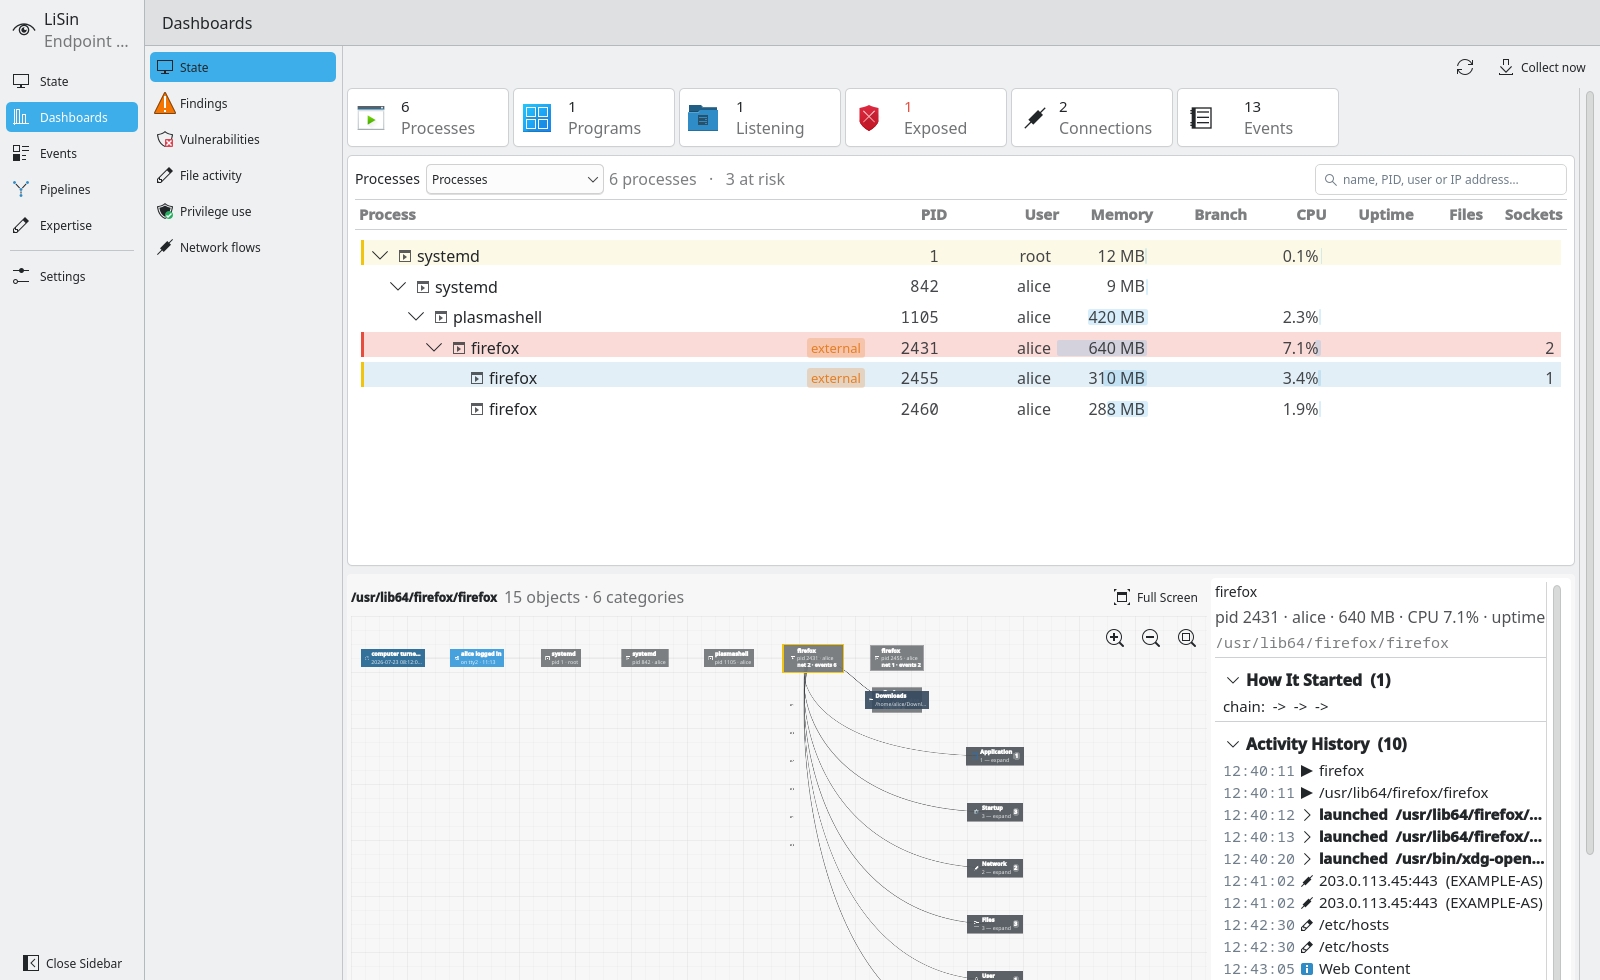
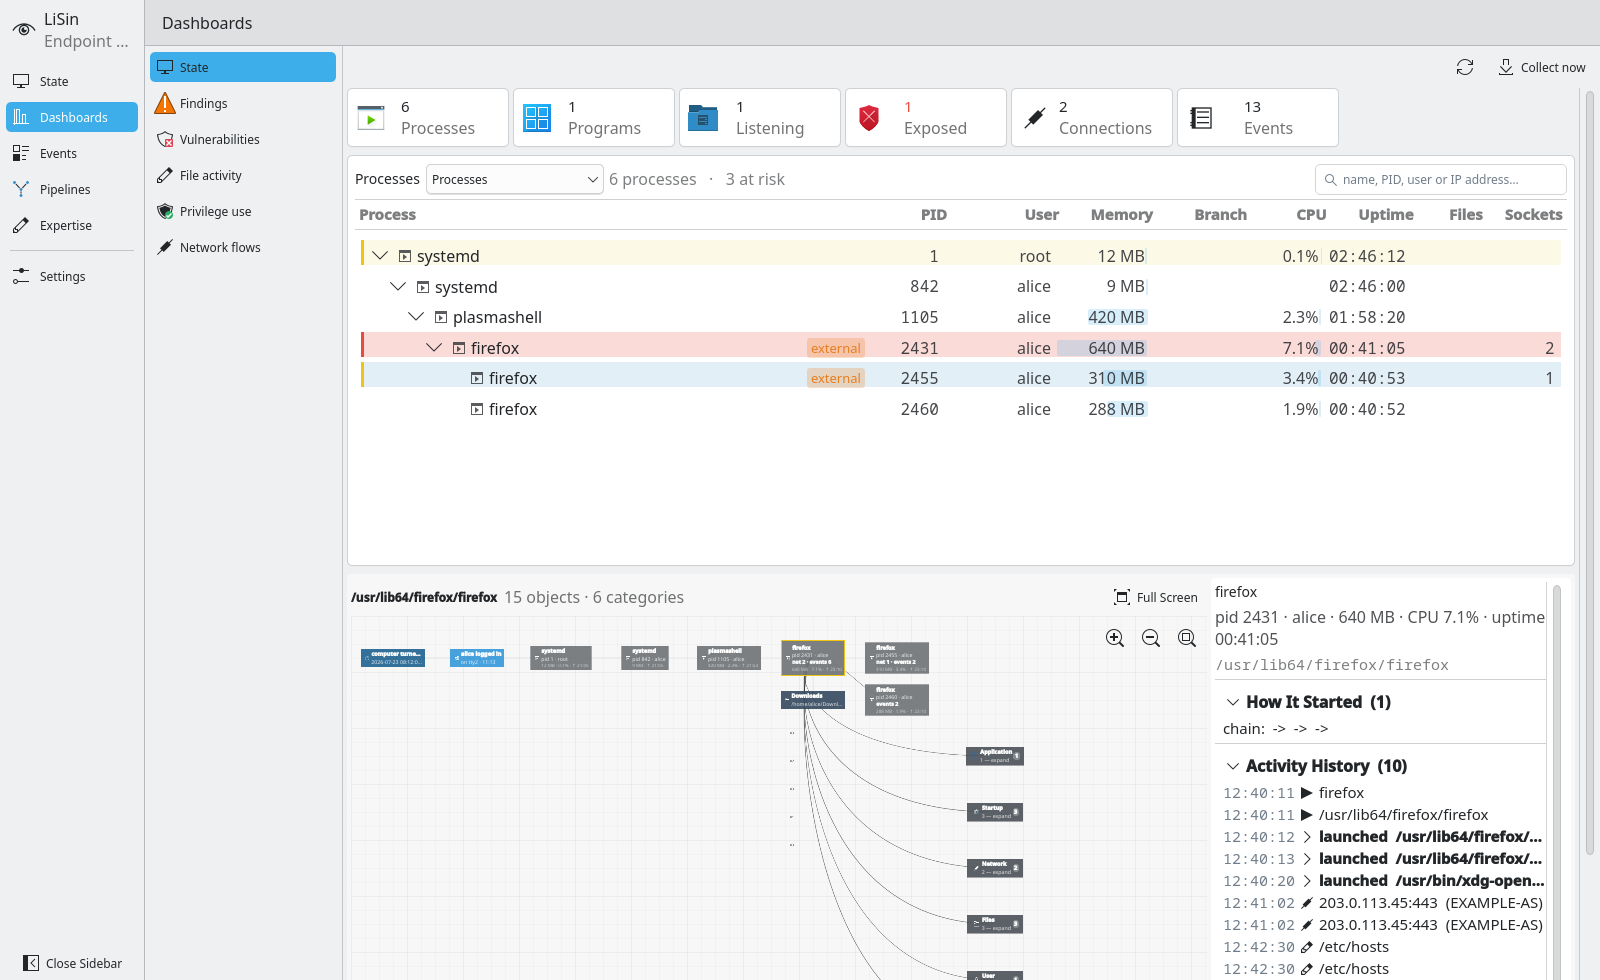
Dashboard graph: no overlaps, tidy expand lines, subtle per-process metrics
Three fixes to the process/anchor graph:

* DIRECTORIES NO LONGER OVERLAP. The tree, the boot/login spine, the working
  directory and the category grids were each placed independently, so a dir
  node (e.g. /opt/Bitrix24) could land on top of a process. A single
  _declutter pass now pushes any colliding cards apart in whole grid steps
  (so a later snap can't undo it), guaranteeing a clear gap - measured 0
  overlaps for every anchor kind, collapsed and expanded. The cwd node also
  moved from the child column (where it sat on a child) to directly below the
  process.

* EXPAND NO LONGER MAKES A HAIRBALL. When a category is expanded its members
  are a tidy grid next to the block header; a wire from the header to every
  one of them was the tangle. The members now read as a cluster (same colour,
  grouped in place) and the wires appear only when the block or a member is
  hovered - overview first, connections on demand.

* SUBTLE PER-PROCESS METRICS. Each process node carries a faint third line -
  RAM, CPU and when it started (uptime subtracted from now) - dim and small on
  purpose: there for a glance, never shouting.

diff --git a/ui/components/GraphCanvas.qml b/ui/components/GraphCanvas.qml
@@ -267,6 +267,14 @@ Item {
                         var e = edges[j]
                         var a = pos[e.a], b = pos[e.b]
                         if (!a || !b) continue
+                        // WHEN A CATEGORY IS EXPANDED, its members are shown as a
+                        // tidy grid next to the block header - a wire from the
+                        // header to every one of them turned that into a hairball.
+                        // The members read as a cluster (same colour, grouped in
+                        // place); the wires appear only when the block or one of
+                        // its members is hovered, to confirm what belongs where.
+                        if (a.kind === "group" && hov !== e.a && hov !== e.b)
+                            continue
                         var lit = hov === "" || e.a === hov || e.b === hov
                         var member = e.rel === "member"
                         var conn = e.rel === "connected"
@@ -434,6 +442,16 @@ Item {
                                 Layout.maximumWidth: chip.maxW - Kirigami.Units.gridUnit * 2
                                 font.bold: true
                                 font.pointSize: Kirigami.Theme.smallFont.pointSize - 1
+                            }
+                            // A FAINT METRICS LINE (RAM · CPU · started). Dim and
+                            // tiny on purpose: there for a glance, never shouting.
+                            QQC2.Label {
+                                text: modelData.metrics || ""
+                                visible: text !== ""
+                                color: Qt.alpha("white", 0.6)
+                                elide: Text.ElideRight
+                                Layout.maximumWidth: chip.maxW - Kirigami.Units.gridUnit * 2
+                                font.pointSize: Kirigami.Theme.smallFont.pointSize - 2
                             }
                         }
                         // the counter on a category meta node

diff --git a/agent/analysis/links.py b/agent/analysis/links.py
@@ -422,6 +422,51 @@ def _emit_categories(add, link, anchor_id, ax, ay, cats, expanded,
     return summary
 
 
+def _declutter(nodes, w=240, h=120, rounds=80):
+    """Push overlapping cards apart so none sit on top of each other.
+
+    The tree, the boot/login spine, the working-directory node and the category
+    grids are each placed independently, so a directory could land on a tree node
+    (that was the "directories overlap strangely" bug). This one pass guarantees a
+    clear gap - the same idea as the pipeline editor's enforceLayout. It only ever
+    moves cards that actually collide, so a graph that is already tidy is untouched.
+    Pushes are whole GRID steps, so cards stay grid-aligned and a later snap cannot
+    pull two cleared cards back on top of each other.
+    """
+    if len(nodes) < 2:
+        return
+    for n in nodes:                               # start grid-aligned
+        n["x"] = _snap(n["x"])
+        n["y"] = _snap(n["y"])
+    for _ in range(rounds):
+        moved = False
+        for i in range(len(nodes)):
+            a = nodes[i]
+            for j in range(i + 1, len(nodes)):
+                b = nodes[j]
+                dx = b["x"] - a["x"]
+                dy = b["y"] - a["y"]
+                ox = w - abs(dx)
+                oy = h - abs(dy)
+                if ox <= 0 or oy <= 0:
+                    continue                      # no overlap
+                if ox < oy:                       # separate along x (smaller push)
+                    s = (ox // 2 // GRID + 1) * GRID
+                    if dx >= 0:
+                        a["x"] -= s; b["x"] += s
+                    else:
+                        a["x"] += s; b["x"] -= s
+                else:                             # separate along y
+                    s = (oy // 2 // GRID + 1) * GRID
+                    if dy >= 0:
+                        a["y"] -= s; b["y"] += s
+                    else:
+                        a["y"] += s; b["y"] -= s
+                moved = True
+        if not moved:
+            break
+
+
 def _normalize_xy(nodes, pad=120):
     """Shift all nodes so that the minimum x/y is a positive margin.
 
@@ -788,6 +833,7 @@ def _anchor_generic(db, eventsdb, kind, table, col, val, nkind, expanded):
         pass
 
     categories = _emit_categories(add, link, root, ax, ay, cats, expanded)
+    _declutter(nodes)
     _normalize_xy(nodes)
     width = max((n["x"] for n in nodes), default=800) + 300
     height = max((n["y"] for n in nodes), default=600) + 200
@@ -795,6 +841,41 @@ def _anchor_generic(db, eventsdb, kind, table, col, val, nkind, expanded):
             "categories": categories,
             "anchor": {"kind": kind, "table": table, "col": col, "val": val,
                        "label": label}, "error": ""}
+
+
+def _fmt_ram(mb):
+    """rss in MB -> a short human string ('640 MB', '2.1 GB'); '' if none."""
+    try:
+        v = float(mb)
+    except (TypeError, ValueError):
+        return ""
+    if v <= 0:
+        return ""
+    return ("%.1f GB" % (v / 1024)) if v >= 1024 else ("%d MB" % round(v))
+
+
+def _started_from_elapsed(elapsed):
+    """ps etime ('[[DD-]HH:]MM:SS') -> local clock 'HH:MM' when the process began.
+
+    The processes table already carries the uptime; subtracting it from now gives
+    when it was launched, which is what the analyst reads on the node.
+    """
+    s = str(elapsed or "").strip()
+    if not s:
+        return ""
+    try:
+        from datetime import datetime, timedelta
+        days = 0
+        if "-" in s:
+            d, s = s.split("-", 1)
+            days = int(d)
+        parts = [int(x) for x in s.split(":")]
+        while len(parts) < 3:
+            parts.insert(0, 0)
+        secs = days * 86400 + parts[-3] * 3600 + parts[-2] * 60 + parts[-1]
+        return (datetime.now() - timedelta(seconds=secs)).strftime("%H:%M")
+    except Exception:
+        return ""
 
 
 def _proc_started_abs(pid, boot_iso):
@@ -845,7 +926,7 @@ def around(db, eventsdb, pid: str, depth_up: int = 6,
     con = _ro(db)
     try:
         rows = _q(con, "SELECT pid, ppid, user, command, package, purpose, "
-                       "title, rss_mb, cpu, arg_files FROM processes")
+                       "title, rss_mb, cpu, elapsed, arg_files FROM processes")
         by_pid = {str(r["pid"]): r for r in rows}
         kids_of = {}
         for r in rows:
@@ -954,10 +1035,23 @@ def around(db, eventsdb, pid: str, depth_up: int = 6,
                 counts.append("files %d" % fd)
             if ev_n.get(rpid):
                 counts.append("events %d" % ev_n[rpid])
+            # A FAINT METRICS LINE: RAM, CPU and when it started. Small and low
+            # contrast (rendered dim in QML) - present for a glance, not shouting.
+            mtr = []
+            ram = _fmt_ram(r.get("rss_mb"))
+            if ram:
+                mtr.append(ram)
+            cpu = str(r.get("cpu") or "").strip()
+            if cpu and cpu not in ("0", "0.0", "0.00"):
+                mtr.append(cpu + "%")
+            started = _started_from_elapsed(r.get("elapsed"))
+            if started:
+                mtr.append("↑ " + started)
             add(nid, "process", name,
                 "pid %s · %s" % (rpid, r.get("user") or ""),
                 "processes", "pid", rpid,
                 counts=" · ".join(counts),
+                metrics=" · ".join(mtr),
                 focus=(rpid == pid), drill="reanchor",
                 risk=bool(not (r.get("package") or "").strip()),
                 purpose=(r.get("purpose") or r.get("title") or ""))
@@ -1201,7 +1295,9 @@ def around(db, eventsdb, pid: str, depth_up: int = 6,
         add("cwd:" + pid, "dir", cwd.rsplit("/", 1)[-1] or "/", cwd,
             "open_files", "dir", cwd, drill="state",
             risk=cwd.startswith(("/tmp", "/dev/shm", "/var/tmp")))
-        nodes[-1]["x"] = ax + STEP_X
+        # directly BELOW the anchor, not in the child column (that put it on top
+        # of a child process); _declutter clears any remaining overlap
+        nodes[-1]["x"] = ax
         nodes[-1]["y"] = ay + STEP_Y
         link(root, "cwd:" + pid, "runs in", rel="runs_in")
 
@@ -1277,6 +1373,7 @@ def around(db, eventsdb, pid: str, depth_up: int = 6,
                                   set(expanded), tree_right=tree_right,
                                   tree_bottom=tree_bottom)
 
+    _declutter(nodes)
     _normalize_xy(nodes)
     width = max((n["x"] for n in nodes), default=800) + 300
     height = max((n["y"] for n in nodes), default=600) + 200